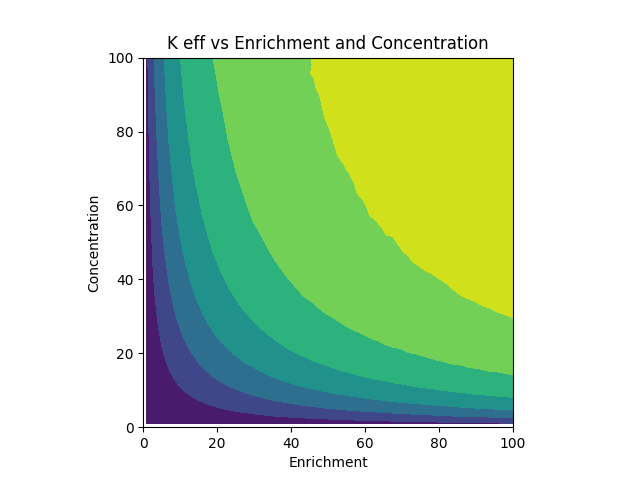
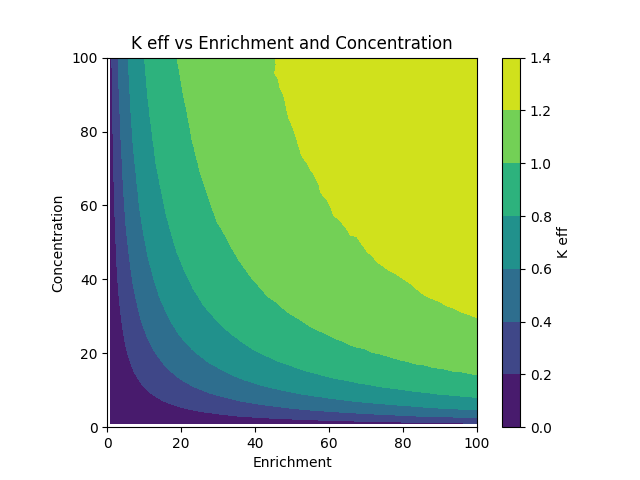
Done enrichment Vs concentration

diff --git a/Mads/EnrichmentAndConcentrationPlot.py b/Mads/EnrichmentAndConcentrationPlot.py
@@ -1,0 +1,21 @@
+import numpy as np
+import matplotlib.pyplot as plt
+
+data = np.load('git/reaktorProject/Mads/KeffsEnrichmentAndConcentration.npz')
+enrichs = data['enrichments']
+cons = data['concentrations']
+kEffs = data['keffs']
+stdKeffs = data['stdKeffs']
+
+# Plotting
+fig, ax = plt.subplots(1,1)
+contour = ax.contourf(enrichs,cons,kEffs)
+ax.set_xlabel("Enrichment")
+ax.set_ylabel("Concentration")
+ax.set_title("K eff vs Enrichment and Concentration")
+ax.set_xlim(0,100)
+ax.set_ylim(0,100)
+ax.set_aspect('equal')
+fig.colorbar(contour, ax=ax, label='K eff')
+fig.savefig("git/reaktorProject/Mads/keffvsEnrichmentDebug")
+plt.show()
